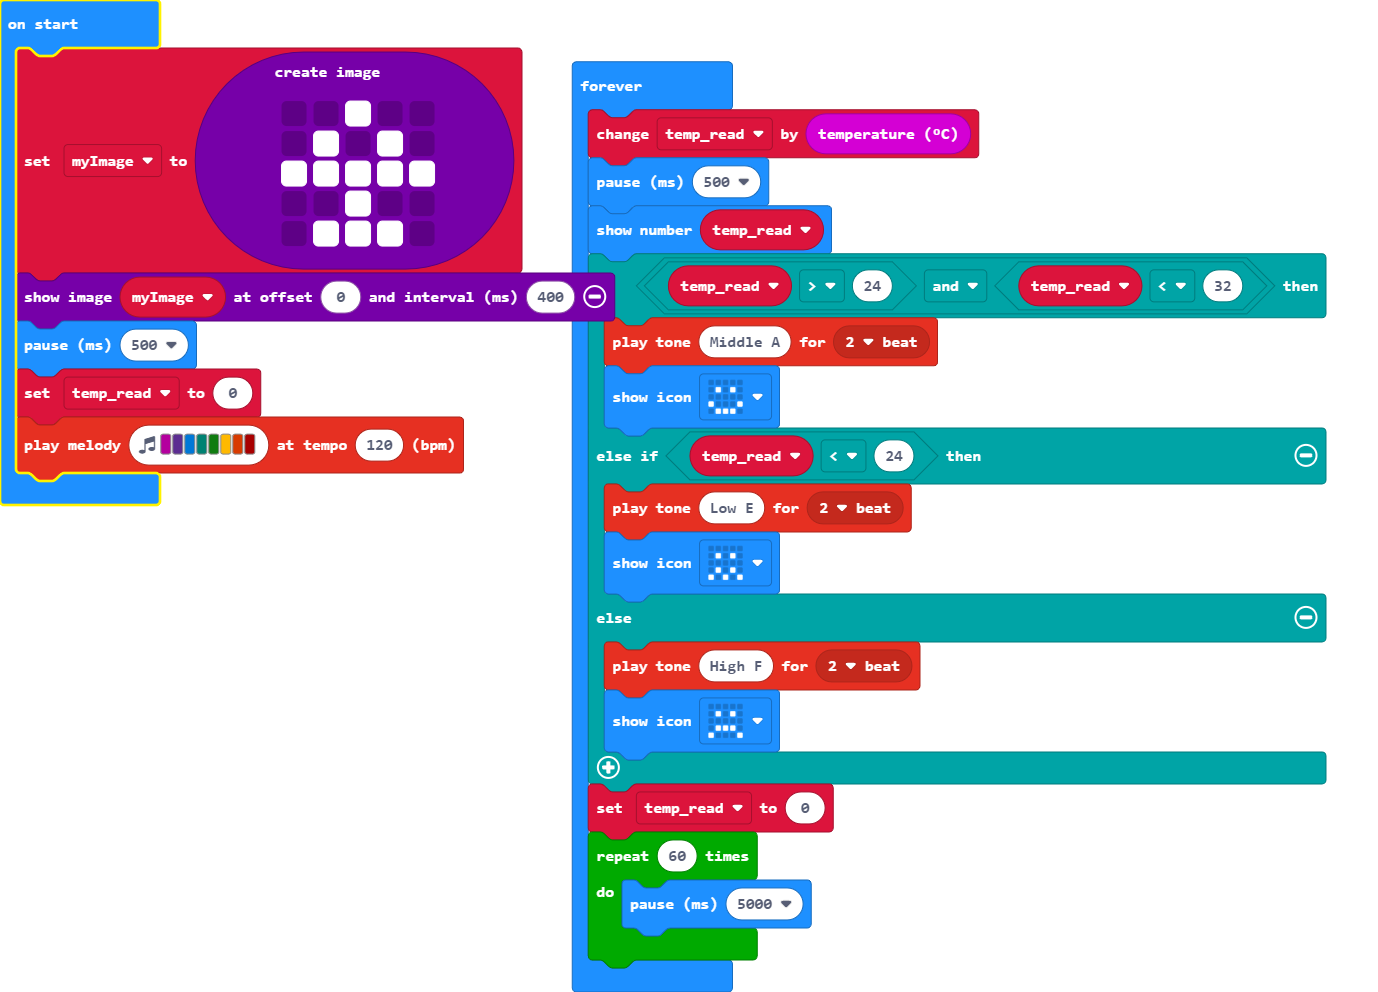
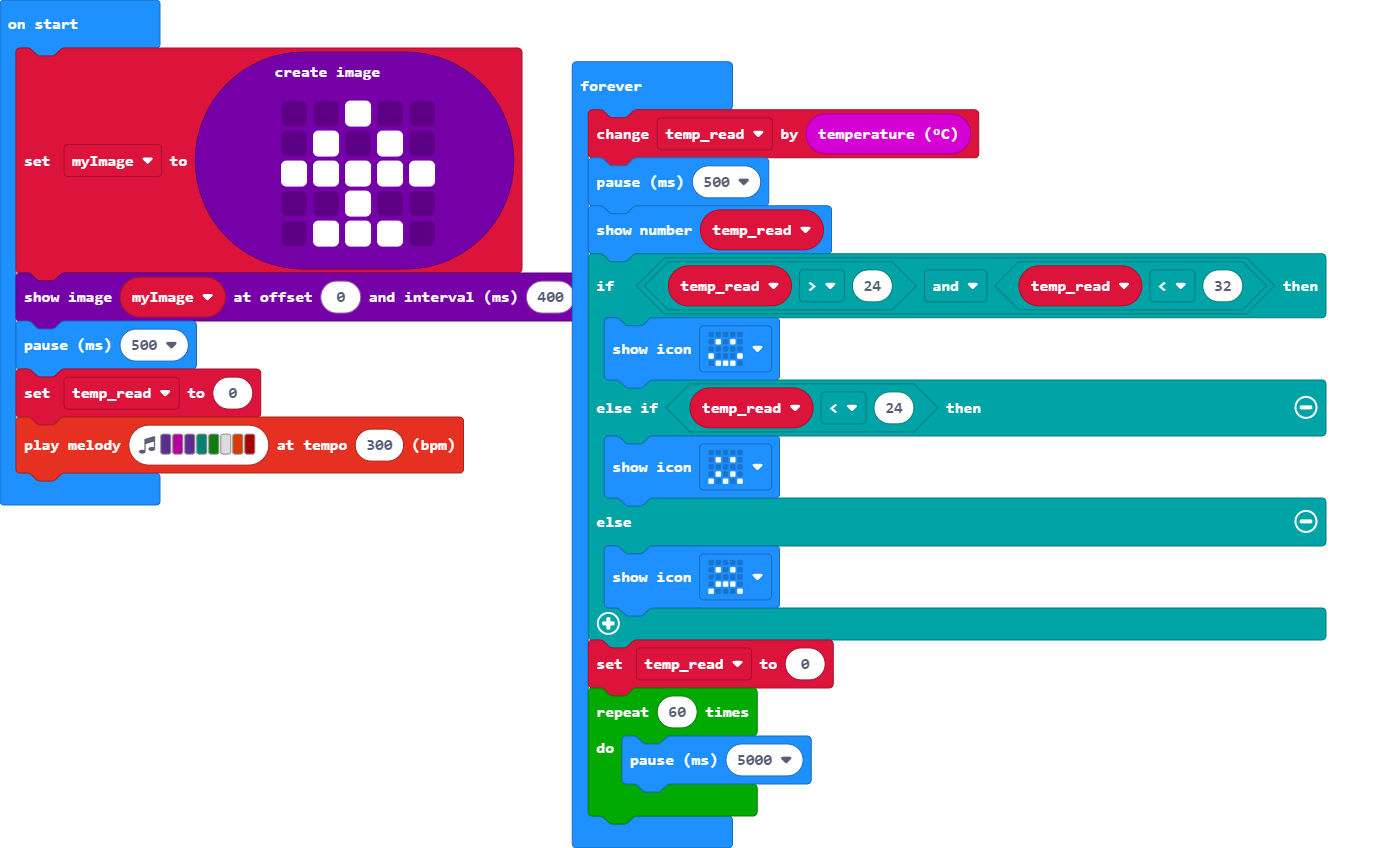
remove sounds during temperature interpretation

diff --git a/main.ts b/main.ts
@@ -8,19 +8,16 @@ let myImage = images.createImage(`
 myImage.showImage(0, 400)
 basic.pause(500)
 let temp_read = 0
-music.playMelody("C D E F G A B C5 ", 120)
+music.playMelody("D C D F G - B C5 ", 300)
 basic.forever(function () {
     temp_read += input.temperature()
     basic.pause(500)
     basic.showNumber(temp_read)
     if (temp_read > 24 && temp_read < 32) {
-        music.playTone(440, music.beat(BeatFraction.Double))
         basic.showIcon(IconNames.Happy)
     } else if (temp_read < 24) {
-        music.playTone(165, music.beat(BeatFraction.Double))
         basic.showIcon(IconNames.Confused)
     } else {
-        music.playTone(698, music.beat(BeatFraction.Double))
         basic.showIcon(IconNames.Sad)
     }
     temp_read = 0
